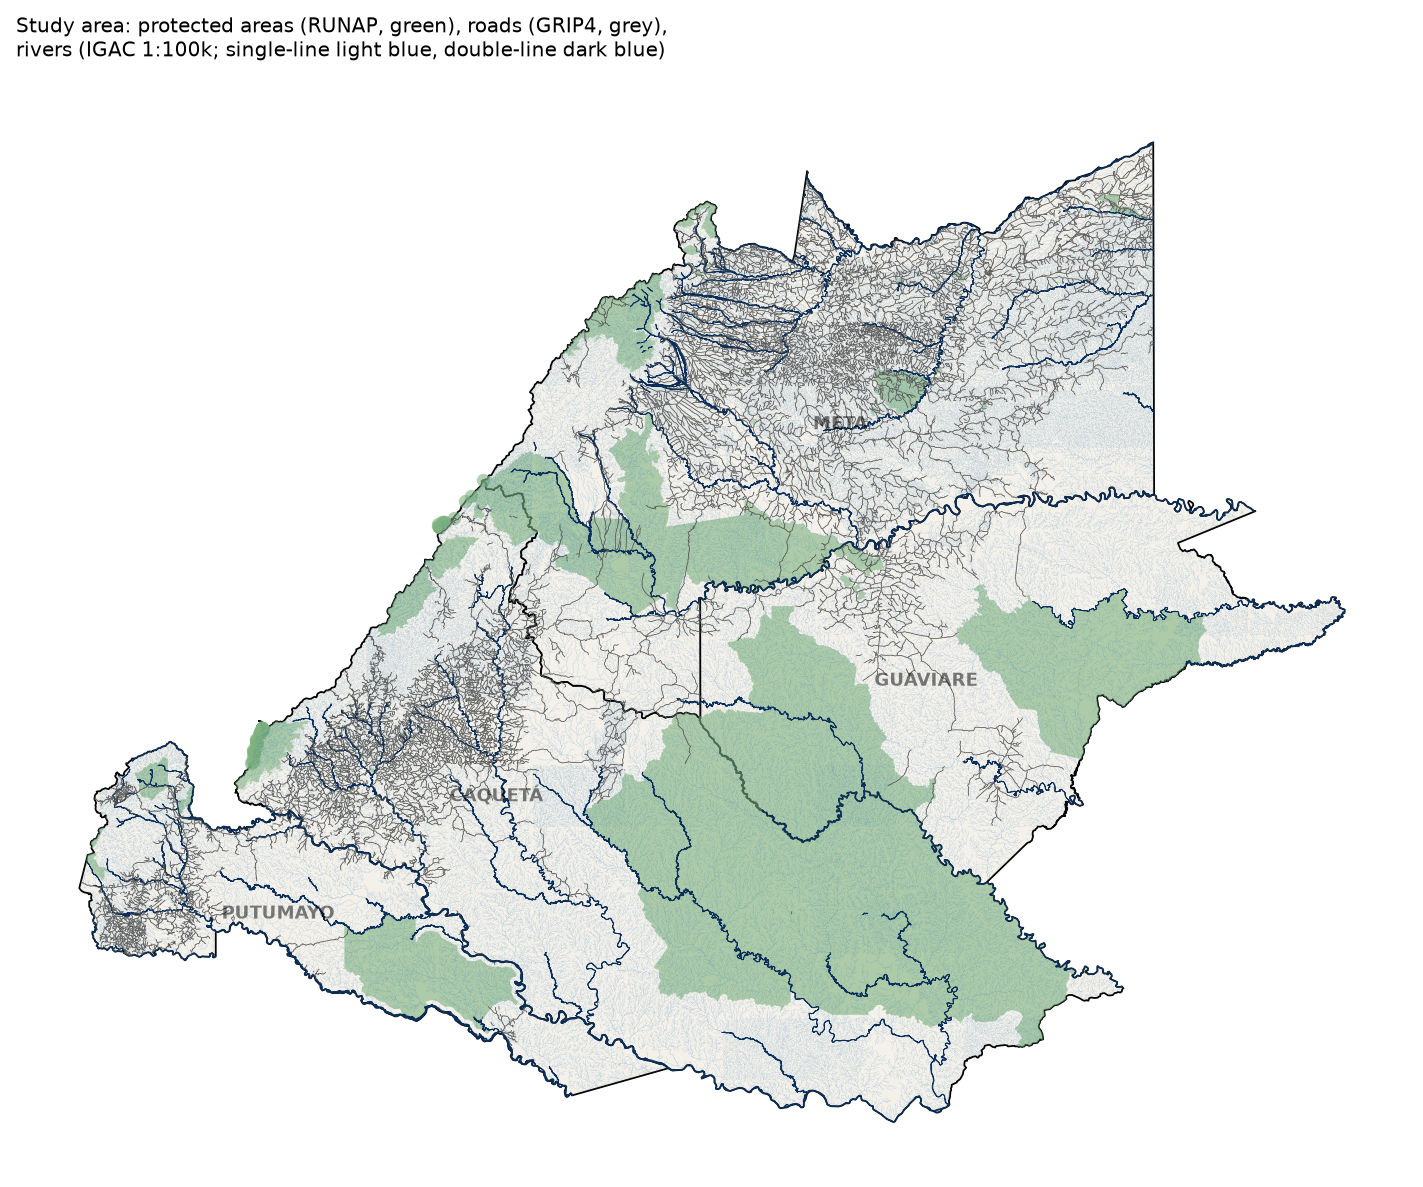
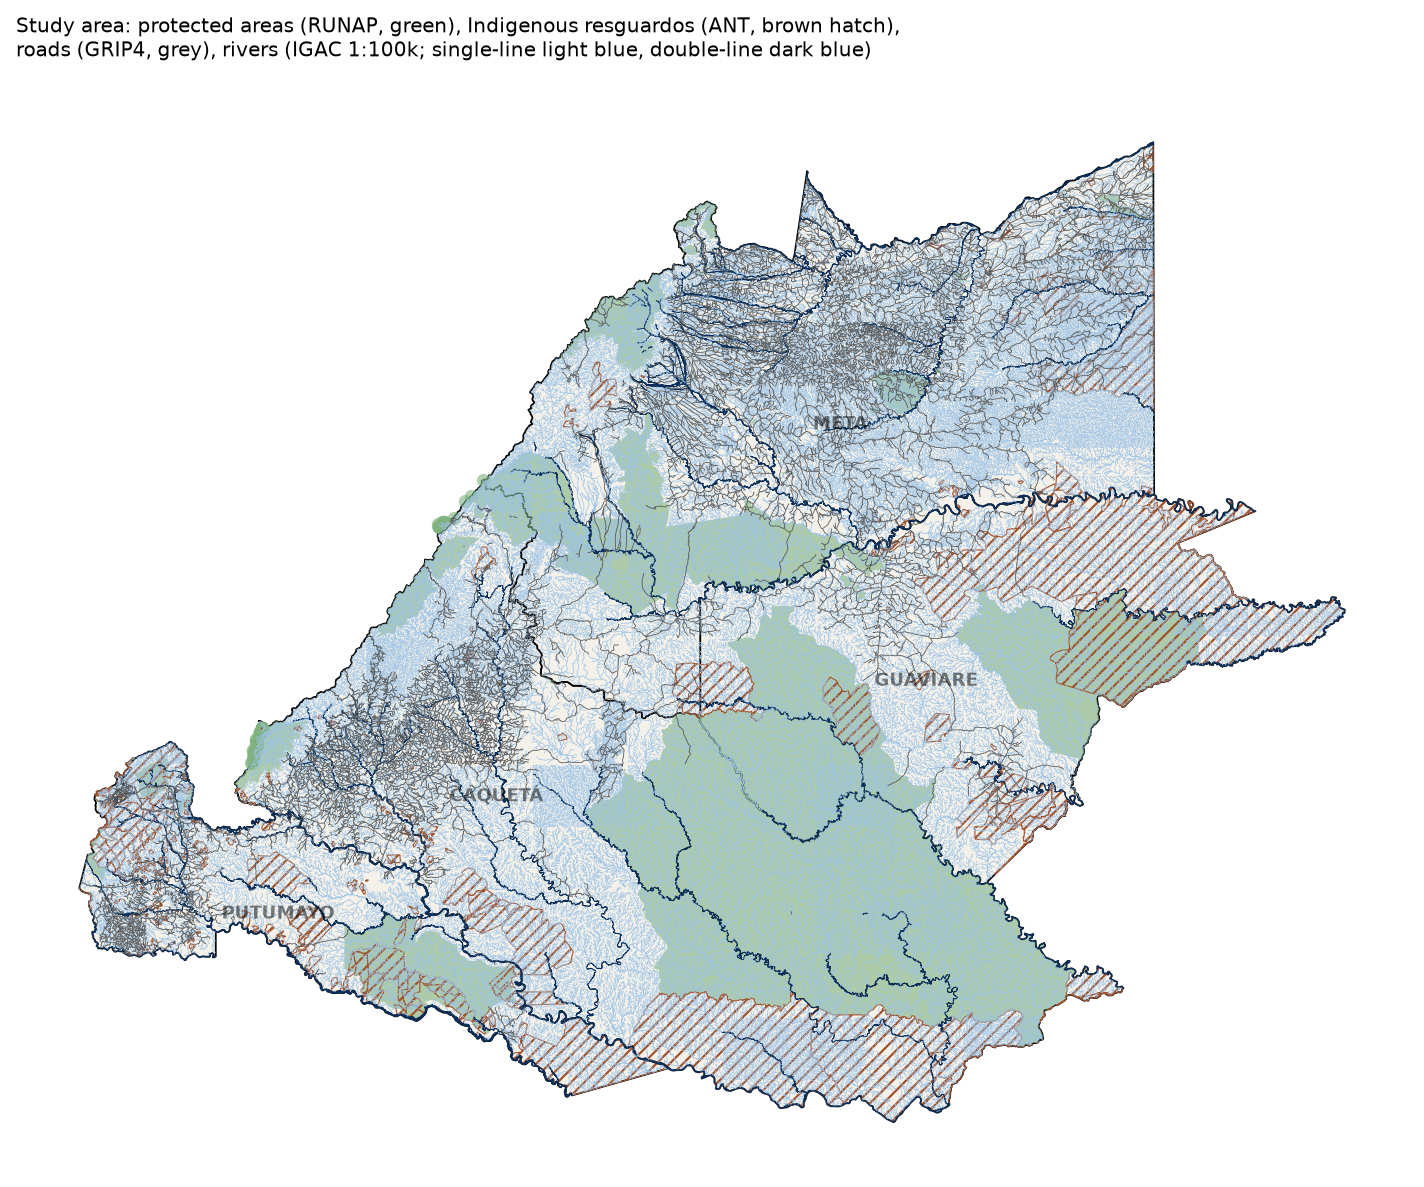
feat: add distance to nearest resguardo
- Download ANT Indigenous resguardos (A10)
- Load, repair and measure like protected areas
- Exploration row, map hatch and README rows

Changed region(s): [[0.0618, 0.1247, 0.9585, 0.9351], [0.0309, 0.0, 0.6184, 0.0623]]

diff --git a/scripts/loss/load_targets.py b/scripts/loss/load_targets.py
@@ -6,16 +6,19 @@ nearest one for a patch closer than that to some feature.
 --runap  protected areas (A6); runap_sub splits each area into pieces of at most 256 vertices (A7)
 --roads  GRIP4 roads (A5); roads_sub as for runap
 --rivers IGAC double-line rivers (A9); rivers_sub as for runap
+--resguardos ANT Indigenous resguardos (A10), repaired with make_valid; resguardos_sub as for runap
 
 In:  data.nosync/raw/runap/runap_latest.zip, data.nosync/raw/grip4/GRIP4_Region2_vector_shp.zip,
-     data.nosync/raw/igac_drenaje/drenaje_doble.parquet
-Out: tables runap, runap_sub, roads, roads_sub, rivers, rivers_sub
+     data.nosync/raw/igac_drenaje/drenaje_doble.parquet, data.nosync/raw/ant_resguardos/resguardos.parquet
+Out: tables runap, runap_sub, roads, roads_sub, rivers, rivers_sub, resguardos, resguardos_sub
 
-Usage: python scripts/loss/load_targets.py [--runap] [--roads] [--rivers]
+Usage: python scripts/loss/load_targets.py [--runap] [--roads] [--rivers] [--resguardos]
 """
 import argparse
 
 import geopandas as gpd
+import pandas as pd
+import shapely
 from sqlalchemy import text
 
 import db
@@ -28,6 +31,7 @@ parser = argparse.ArgumentParser(description="Load target layers into PostGIS.")
 parser.add_argument("--runap", action="store_true", help="protected areas (RUNAP)")
 parser.add_argument("--roads", action="store_true", help="roads (GRIP4)")
 parser.add_argument("--rivers", action="store_true", help="rivers, double-line (IGAC)")
+parser.add_argument("--resguardos", action="store_true", help="Indigenous resguardos (ANT)")
 args = parser.parse_args()
 if not any(vars(args).values()):
     parser.error("say which layers to load, e.g. --runap")
@@ -73,3 +77,19 @@ if args.rivers:
     g.to_postgis("rivers", engine, if_exists="replace", index=False)
     print(f"rivers: {len(g):,} double-line rivers within {TARGET_BUFFER / 1e3:.0f} km "
           f"({subdivide('rivers', 'river_id'):,} pieces)")
+
+if args.resguardos:
+    g = gpd.read_parquet("data.nosync/raw/ant_resguardos/resguardos.parquet",
+                         columns=["OBJECTID", "NOMBRE", "PUEBLO", "ULTIMA_FECHA_ACTO_ADMIN", "geometry"])
+    n_invalid = (~g.is_valid).sum()
+    # self-touching rings; "structure" keeps polygons only
+    g["geometry"] = shapely.make_valid(g.geometry.values, method="structure", keep_collapsed=False)
+    assert g.is_valid.all() and g.geom_type.isin(["Polygon", "MultiPolygon"]).all()
+    g = g.to_crs(CRS)
+    g = g[g.intersects(area.iloc[0])]
+    g = g.rename(columns={"OBJECTID": "res_id", "NOMBRE": "res_name", "PUEBLO": "pueblo"})
+    # epoch ms; the last administrative act, not the constitution date
+    g["last_act_date"] = pd.to_datetime(g.pop("ULTIMA_FECHA_ACTO_ADMIN"), unit="ms").dt.date
+    g.to_postgis("resguardos", engine, if_exists="replace", index=False)
+    print(f"resguardos: {len(g):,} within {TARGET_BUFFER / 1e3:.0f} km "
+          f"({subdivide('resguardos', 'res_id'):,} pieces), {n_invalid} invalid nationally before make_valid")

diff --git a/scripts/setup/map_inputs.py b/scripts/setup/map_inputs.py
@@ -1,7 +1,7 @@
 """
 Quick-look maps of the inputs, before any analysis.
 
-Out: figures/inputs/sources.png        roads, protected areas, rivers over the study area
+Out: figures/inputs/sources.png        roads, protected areas, resguardos, rivers over the study area
      figures/inputs/rivers_el_doncello.png  IGAC 1:100k vs HydroRIVERS in one municipio
      figures/inputs/treatment.png      treatment (D7) by municipio, with border shares
 
@@ -12,6 +12,7 @@ from pathlib import Path
 import geopandas as gpd
 import matplotlib.pyplot as plt
 import pandas as pd
+import shapely
 from matplotlib.patches import Patch
 
 RAW = Path("data.nosync/raw")
@@ -24,6 +25,7 @@ HYRIV = f"zip://{RAW}/hydrorivers/HydroRIVERS_v10_sa_shp.zip!HydroRIVERS_v10_sa_
 SIMPLIFY = 200  # m, display only
 LABEL_SHIFT = {"El Dorado": (9000, 9000), "Lejanías": (-12000, 4000)}  # m, avoid overlaps
 C = {"land": "#f4f1ea", "park": "#7fb27f", "road": "#555555", "river": "#1f6fb2", "river1": "#9cc3e6", "river2": "#0b2e59",
+     "res": "#a0522d",
      "hyriv": "#d1495b", "treated": "#c2553d", "added": "#eba08f", "control": "#e8e2d6", "na": "#b5b5b5"}
 
 OUT.mkdir(parents=True, exist_ok=True)
@@ -49,19 +51,24 @@ runap = gpd.read_file(RUNAP, bbox=bbox).to_crs(9377)
 runap = gpd.clip(runap, area_u)
 roads = gpd.clip(gpd.read_file(GRIP, bbox=bbox).to_crs(9377), area_u)
 sen = gpd.clip(gpd.read_parquet(RAW / "igac_drenaje/drenaje_sencillo.parquet").to_crs(9377), area_u)
+res = gpd.read_parquet(RAW / "ant_resguardos/resguardos.parquet", columns=["geometry"])
+res["geometry"] = shapely.make_valid(res.geometry.values, method="structure", keep_collapsed=False)
+res = gpd.clip(res.to_crs(9377), area_u)
 dob = gpd.clip(gpd.read_parquet(RAW / "igac_drenaje/drenaje_doble.parquet").to_crs(9377), area_u)
 
 fig, ax = plt.subplots(figsize=(9, 10))
 depts.plot(ax=ax, color=C["land"], edgecolor="black", linewidth=0.8)
 runap.simplify(SIMPLIFY).plot(ax=ax, color=C["park"], alpha=0.6, linewidth=0)
+# hatch, not fill, so overlaps with protected areas show both
+res.simplify(SIMPLIFY).plot(ax=ax, facecolor="none", edgecolor=C["res"], hatch="////", linewidth=0.5)
 sen.plot(ax=ax, color=C["river1"], linewidth=0.3)
 dob.plot(ax=ax, color=C["river2"], linewidth=0.4, edgecolor=C["river2"])
 roads.plot(ax=ax, color=C["road"], linewidth=0.35)
 for _, r in depts.iterrows():
     p = r.geometry.representative_point()
     ax.annotate(r.ADM1_ES.upper(), (p.x, p.y), fontsize=8, ha="center", alpha=0.5, weight="bold")
-finish(fig, ax, "sources.png", "Study area: protected areas (RUNAP, green), roads (GRIP4, grey),\n"
-       "rivers (IGAC 1:100k; single-line light blue, double-line dark blue)")
+finish(fig, ax, "sources.png", "Study area: protected areas (RUNAP, green), Indigenous resguardos (ANT, brown hatch),\n"
+       "roads (GRIP4, grey), rivers (IGAC 1:100k; single-line light blue, double-line dark blue)")
 
 # --- rivers in El Doncello ---
 mu = munis[munis.ADM2_ES == "El Doncello"]

diff --git a/scripts/loss/explore_covariate_spread.py b/scripts/loss/explore_covariate_spread.py
@@ -11,9 +11,10 @@ Distances are computed with geopandas against the same 200 km target sets as the
 
 Needs HydroRIVERS (make input-quicklook). Points are saved to
 data.nosync/processed/exploration/background_points.parquet, the table to
-results/exploration/covariate_spread.csv; both are reused, --rerun recomputes them.
+results/exploration/covariate_spread.csv; both are reused. --rerun recomputes the table from the
+saved points, --redraw also draws new points (Earth Engine).
 
-Usage: python scripts/loss/explore_covariate_spread.py [--rerun]
+Usage: python scripts/loss/explore_covariate_spread.py [--rerun | --redraw]
 """
 import os
 import sys
@@ -24,6 +25,7 @@ import geopandas as gpd
 import h3
 import numpy as np
 import pandas as pd
+import shapely
 from dotenv import load_dotenv
 
 import loss_rule as lr
@@ -73,10 +75,13 @@ def targets(ring):
     runap = gpd.read_file(f"zip://{RAW}/runap/runap_latest.zip!runap.shp").to_crs(CRS)
     single = gpd.read_parquet(RAW / "igac_drenaje/drenaje_sencillo.parquet", columns=["geometry"]).to_crs(CRS)
     double = gpd.read_parquet(RAW / "igac_drenaje/drenaje_doble.parquet", columns=["geometry"]).to_crs(CRS)
+    res = gpd.read_parquet(RAW / "ant_resguardos/resguardos.parquet", columns=["geometry"])
+    res["geometry"] = shapely.make_valid(res.geometry.values, method="structure", keep_collapsed=False)
     hyriv = read(f"zip://{HYRIV}!HydroRIVERS_v10_sa_shp/HydroRIVERS_v10_sa.shp", columns=["DIS_AV_CMS"])
     layers = {
         "road (GRIP4)": roads,
         "protected area (RUNAP)": runap,
+        "Indigenous resguardo (ANT)": res.to_crs(CRS),
         "river: IGAC single- and double-line": pd.concat([single, double]),
         "river: IGAC double-line": double,
         **{f"river: HydroRIVERS >= {q} m3/s": hyriv[hyriv.DIS_AV_CMS >= q] for q in (1, 5, 20)},
@@ -90,11 +95,12 @@ def nearest(points, target):
     return j[~j.index.duplicated()].d.reindex(points.index)
 
 
-if "--rerun" in sys.argv or not OUT.exists():
+redraw = "--redraw" in sys.argv
+if redraw or "--rerun" in sys.argv or not OUT.exists():
     area = gpd.read_parquet("data.nosync/processed/study_area.parquet").to_crs(CRS).union_all()
     ring = area.buffer(TARGET_BUFFER)
 
-    if "--rerun" in sys.argv or not POINTS.exists():
+    if redraw or not POINTS.exists():
         bg, eecu = background_points(area, N_POINTS)
         POINTS.parent.mkdir(parents=True, exist_ok=True)
         bg.assign(draw_eecu_s=round(eecu, 1)).to_parquet(POINTS)  # cost kept with the points

diff --git a/scripts/setup/download_resguardos.py b/scripts/setup/download_resguardos.py
@@ -1,0 +1,59 @@
+"""
+Download ANT's formalized indigenous resguardos (whole country) into data.nosync/raw/ant_resguardos/.
+Skips the file if it exists.
+
+Source: Agencia Nacional de Tierras open-data portal, layer "Resguardo Indígena Formalizado" (data
+updated 2026-06-25 per the layer description), queried in pages. The only date is
+ULTIMA_FECHA_ACTO_ADMIN, the last administrative act. Department/municipio fields are DANE codes.
+Saved as served (GeoJSON output, EPSG:4326). Accessed 2026-11-02.
+"""
+import time
+from pathlib import Path
+
+import geopandas as gpd
+import pandas as pd
+import requests
+
+OUT = Path("data.nosync/raw/ant_resguardos/resguardos.parquet")
+SVC = ("https://utility.arcgis.com/usrsvcs/servers/8944116ccfd34a7189c4bc44b8e19186/rest/services/"
+       "DatosAbiertos/Resguardo_Indigena_Formalizado/FeatureServer/0")
+PAGE = 100  # large polygons; small pages keep each response manageable
+HDR = {"User-Agent": "Mozilla/5.0"}
+
+
+def get(params, tries=5):
+    for i in range(tries):
+        try:
+            r = requests.get(f"{SVC}/query", params=params, headers=HDR, timeout=300)
+            r.raise_for_status()
+            js = r.json()
+            if "error" in js:
+                raise RuntimeError(js["error"])
+            return js
+        except Exception as e:
+            if i == tries - 1:
+                raise
+            print(f"    retry {i + 1}: {e}")
+            time.sleep(30 * (i + 1))
+
+
+if OUT.exists():
+    print(f"skip  {OUT.name}")
+else:
+    t0 = time.time()
+    n = get({"where": "1=1", "returnCountOnly": "true", "f": "json"})["count"]
+    parts, off = [], 0
+    while off < n:
+        js = get({"where": "1=1", "outFields": "*", "outSR": 4326, "orderByFields": "OBJECTID",
+                  "resultOffset": off, "resultRecordCount": PAGE, "f": "geojson"})
+        feats = js.get("features", [])
+        if not feats:
+            break
+        parts.append(gpd.GeoDataFrame.from_features(feats, crs=4326))
+        off += len(feats)
+        print(f"  {off}/{n}")
+    g = pd.concat(parts, ignore_index=True).drop_duplicates("OBJECTID").reset_index(drop=True)
+    assert len(g) == n, f"{len(g)} features, server says {n}"
+    OUT.parent.mkdir(parents=True, exist_ok=True)
+    g.to_parquet(OUT)
+    print(f"got   {OUT.name} ({len(g)} features, {time.time() - t0:.0f} s)")

diff --git a/scripts/loss/distance_resguardos.py b/scripts/loss/distance_resguardos.py
@@ -1,0 +1,38 @@
+"""
+Distance from each loss patch to the nearest Indigenous resguardo (ANT, current boundaries, A10),
+queried against resguardos_sub (A7). A patch overlapping or touching a resguardo gets distance 0 and
+in_res = True.
+
+Needs PostGIS loaded by load_patches.py (all years) and load_targets.py --resguardos.
+Out: data.nosync/processed/covariates/resguardos.parquet
+
+Usage: python scripts/loss/distance_resguardos.py
+"""
+import time
+from pathlib import Path
+
+import pandas as pd
+from sqlalchemy import text
+
+import db
+from patch_distances import TARGET_BUFFER, nearest_sql
+
+OUT = Path("data.nosync/processed/covariates/resguardos.parquet")
+
+engine = db.engine()
+
+t0 = time.time()
+with engine.connect() as con:
+    d = pd.read_sql(text(nearest_sql("patches", "resguardos_sub", "res_id")), con)
+    n_patches = con.execute(text("SELECT count(*) FROM patches")).scalar()
+assert len(d) == n_patches, f"{len(d):,} rows for {n_patches:,} patches"
+assert not d.duplicated(["loss_year", "patch_id"]).any()
+# beyond the buffer, a resguardo that wasn't loaded could be nearer
+assert d.dist_m.max() < TARGET_BUFFER, f"max distance {d.dist_m.max():,.0f} m >= buffer {TARGET_BUFFER:,} m"
+
+d = d.rename(columns={"target_id": "res_id", "dist_m": "res_dist_m"})
+d["in_res"] = d.res_dist_m == 0
+OUT.parent.mkdir(parents=True, exist_ok=True)
+d.sort_values(["loss_year", "patch_id"]).to_parquet(OUT, index=False)
+print(f"{len(d):,} patches, {time.time() - t0:.0f} s; median distance {d.res_dist_m.median():,.0f} m, "
+      f"{d.in_res.mean():.1%} in or touching a resguardo")

diff --git a/docs/decisions/data.md b/docs/decisions/data.md
@@ -1,6 +1,6 @@
 # Decisions: data
 
-Next ID: A10.
+Next ID: A11.
 
 - **A1** [SUPERSEDED → A5] **Roads: GRIP4 Region 2 rather than raw OSM.** For Colombia, GRIP4 blends OSM highways with IGAC photogrammetric mapping for lower road classes (Meijer et al. 2018). Informal roads remain undercounted, a limitation for any road dataset in this region.
 - **A2** **CRS: EPSG:9377 (MAGNA-SIRGAS 2018 / Origen-Nacional) for all distances and areas.** Sources in EPSG:4326 are reprojected, or their pixel areas computed, before any metric calculation.
@@ -9,5 +9,6 @@ Next ID: A10.
 - **A5** **Roads: GRIP4 as the pre-ceasefire road network.** Within the study area GRIP4 is 99.9% IGAC mapping dated 2012 (its source and year attributes), with no ferry or river-route class. Distance to road therefore means distance to the network as it stood before the ceasefire (D3). Roads opened later are not observed; clearing that follows them is captured by distance to earlier clearing, updated every year. Informal roads are undercounted.
 - **A6** **Protected areas: current RUNAP boundaries for every year.** The RUNAP download holds only current boundaries, and its `fecha_insc` is the registry date (2011 or later for every area), not the designation date. The largest change in the study area is Chiribiquete: 1.30 Mha at creation (1989), enlarged to 2.78 Mha in 2013 (Resolución 1038) and 4.27 Mha in 2018 (Resolución 1256). Before 2018, distance to a protected area and the inside flag count parts of its extension as protected ahead of their designation.
 - **A7** **Nearest-neighbour distances run against targets split into pieces of at most 256 vertices (`ST_Subdivide`).** The spatial index ranks candidates by bounding box, then measures the exact distance to each; large RUNAP polygons (up to 130,667 vertices; Chiribiquete's box covers 86,896 km²) make every candidate costly. On 10,000 sampled 2015 patches: 27.4 ms per patch on RUNAP as loaded (about 17 h for all years) vs 0.15 ms on the split copy, with the same nearest area and distance for every patch (`results/initial-checks/nearest_timing.csv`). The full run on the split copy, all 2,220,361 patches, took 5 min 20 s.
-- **A8** **Distance targets (protected areas, roads, rivers) are loaded within 200 km of the study area, and each run fails if any patch is 200 km or more from its nearest target.** A feature outside the loaded set can only be nearer than the one found when the distance found exceeds the buffer. The farthest patches are 129 km from a road and 105 km from a protected area, and 0.6% of patches are more than 50 km from a road, so a narrower buffer would miss the true nearest road for some of them. Roads are split like protected areas (A7), though they need it less: 0.32 vs 0.19 ms per patch on a 1,000-patch sample, with the same distances.
+- **A8** **Distance targets are loaded within 200 km of the study area, and each run fails if any patch is 200 km or more from its nearest target.** A feature outside the loaded set can only be nearer than the one found when the distance found exceeds the buffer. The farthest patches are 129 km from a road and 105 km from a protected area, and 0.6% of patches are more than 50 km from a road, so a narrower buffer would miss the true nearest road for some of them. Roads are split like protected areas (A7), though they need it less: 0.32 vs 0.19 ms per patch on a 1,000-patch sample, with the same distances.
 - **A9** **Rivers: IGAC double-line rivers only.** Single-line streams are everywhere: at 48,000 random 2007 forest points, distance to the nearest IGAC river runs from 0.05 to 0.75 km (10th to 90th percentile), narrower than one H3 resolution-7 hex (2.8 km corner to corner), so hexes would get nearly the same value. Double-line rivers, which IGAC maps as polygons rather than lines, run from 1.6 to 29.7 km, also more than 10 km from a road. HydroRIVERS discharge cutoffs of 5 and 20 m³/s spread similarly (1 m³/s sits at the hex limit), but each needs a threshold chosen in this project; IGAC's comes from its mapping (`results/exploration/covariate_spread.csv`). Narrower rivers used by small boats are missed.
+- **A10** **Indigenous resguardos: ANT's formalized resguardo layer, at current boundaries for every year.** RUNAP lists only protected areas, while 240 resguardos cover 4.94 Mha (19%) of the study area, 0.74 Mha of it also protected. Distances to resguardos and to protected areas are kept separate; whether a patch lies in a protected area, a resguardo, both or neither follows from the two. The layer's only date is the last administrative act (constitution, enlargement or restructuring), 2015 or later for 101 of the 217 resguardos listed in the four departments, so boundaries can't be dated. ANT notes its maps are still being validated, and polygon areas differ from titled areas. 18 polygons nationwide have self-touching boundaries and are repaired with `make_valid` (no change in area).
